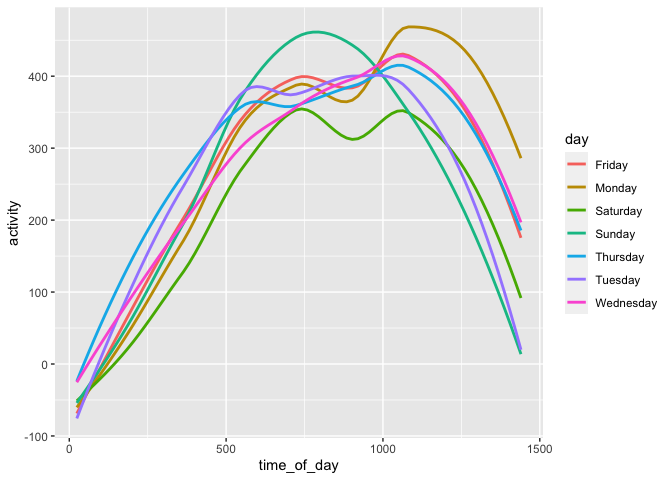
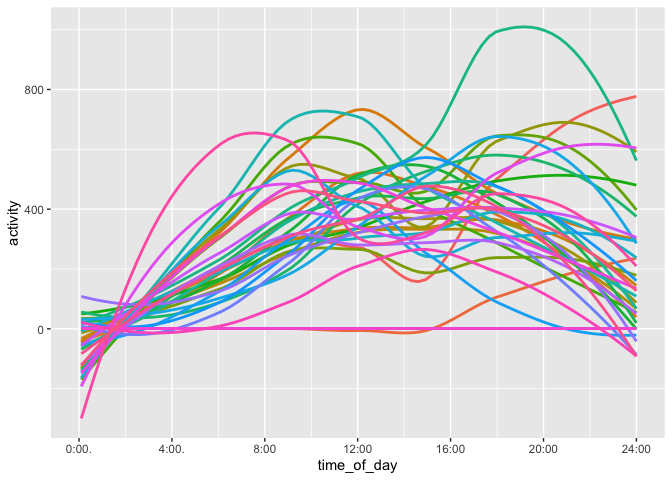
change previous smooth plot, use a more obvious varibale to replace day_id variable; change color of heatmap to make it look better, and give some description of result.

diff --git a/p8105_hw3_yl4925.md b/p8105_hw3_yl4925.md
@@ -463,18 +463,50 @@ activity).
 
 ``` r
 accel_plot_df %>% 
-  filter(time_of_day %% 24 == 0) %>% 
-  ggplot(aes(x = time_of_day, y = activity, color = day)) + 
-  geom_smooth(se = FALSE)
+  mutate(week  = recode(week, '1' = "week1", '2' = "week2", '3' = "week3", 
+                        '4' = "week4", '5' = "week5"),
+         week_day = paste(week, day, sep = "_")) %>% 
+  filter(time_of_day %% 6 == 0) %>% 
+  ggplot(aes(x = time_of_day, y = activity, color = week_day)) + 
+  theme(legend.position = "none") +
+  geom_smooth(se = FALSE) + 
+  scale_x_continuous(
+    breaks = c(0, 240, 480, 720, 960, 1200, 1440), 
+    labels = c("0:00.", "4:00.","8:00", "12:00", "16:00", "20:00", "24:00"),
+    limits = c(-1, 1441))
 ```
 
     ## `geom_smooth()` using method = 'loess' and formula 'y ~ x'
 
-![](p8105_hw3_yl4925_files/figure-gfm/unnamed-chunk-17-1.png)<!-- --> We
-can see there is an activity “peak” for each day, and “peak” time is
-close to noon.
+![](p8105_hw3_yl4925_files/figure-gfm/unnamed-chunk-17-1.png)<!-- -->
 
-I will try to use heatmap to show its trends.
+``` r
+accel_plot_df %>% 
+  mutate(week  = recode(week, '1' = "week1", '2' = "week2", '3' = "week3", 
+                        '4' = "week4", '5' = "week5"),
+         week_day = paste(week, day, sep = "_")) %>% 
+  filter(time_of_day %% 6 == 0, week_day == "week1_Wednesday") 
+```
+
+    ## # A tibble: 240 × 6
+    ##    week  day_id day       time_of_day activity week_day       
+    ##    <chr>  <dbl> <chr>           <dbl>    <dbl> <chr>          
+    ##  1 week1      7 Wednesday           6    18.3  week1_Wednesday
+    ##  2 week1      7 Wednesday          12    80.0  week1_Wednesday
+    ##  3 week1      7 Wednesday          18    19.6  week1_Wednesday
+    ##  4 week1      7 Wednesday          24    21.8  week1_Wednesday
+    ##  5 week1      7 Wednesday          30    26.5  week1_Wednesday
+    ##  6 week1      7 Wednesday          36    10.4  week1_Wednesday
+    ##  7 week1      7 Wednesday          42    10.3  week1_Wednesday
+    ##  8 week1      7 Wednesday          48    60.5  week1_Wednesday
+    ##  9 week1      7 Wednesday          54     5.62 week1_Wednesday
+    ## 10 week1      7 Wednesday          60    19.9  week1_Wednesday
+    ## # … with 230 more rows
+
+We can see there is an activity “peak” for almost each of 35 days, and
+“peak” is in time intervel \[8:00, 20:00\]. But this is still confused
+because there are 35 lines, so I will try to use heatmap to show its
+trends more accurately.
 
 ``` r
 heatmap_df = accel_df %>% 
@@ -498,13 +530,33 @@ heatmap_df %>%
   labs(
     title = "heatmap for activity",
     x = "time of day",
-    y = "day of week"
-  ) +
+    y = "week and day"
+  ) + 
+  scale_fill_manual(values = c("#990000", "#999900", "#009900", "#009999",
+                               "#000099", "#990099", "#99004C")) +
   scale_x_continuous(
     breaks = c(0, 240, 480, 720, 960, 1200, 1440), 
     labels = c("0:00.", "4:00.","8:00", "12:00", "16:00", "20:00", "24:00"),
     limits = c(-1, 1441)) +
-  scale_alpha(range = c(0.1, 2)) 
+  scale_y_continuous(
+    breaks = c(1, 5, 6, 10, 11, 15, 16, 20, 21, 25, 26, 30, 31, 35), 
+    labels = c("week1Sunday", "week5Sunday",
+               "week1Monday", "week5Monday",
+               "week1Tuesday", "week5Tuesday",
+               "week1Wedneaday", "week5Wedneaday",
+               "week1Thursday", "week5Thursday",
+               "week1Friday", "week5Friday",
+               "week1Saturday", "week5Saturday"),
+    limits = c(0, 36)) +
+  scale_alpha(range = c(0.4, 10)) 
 ```
 
 ![](p8105_hw3_yl4925_files/figure-gfm/unnamed-chunk-18-1.png)<!-- -->
+
+Through heatmap we can see that in time interval \[8:00, 20:00\], it has
+deeper color than the rest time of a day. Since we have use alpha to
+represent activity, we can say in time interval \[8:00, 20:00\], this
+man’s activity is higher than the rest time of a day.(greater activity
+value means greater alpha, thus deeper color). This time interval is
+also reasonable because 8:00 is close to time when we usually get up,
+and 20:00 is close to tiem when we prepare to rest at home.
